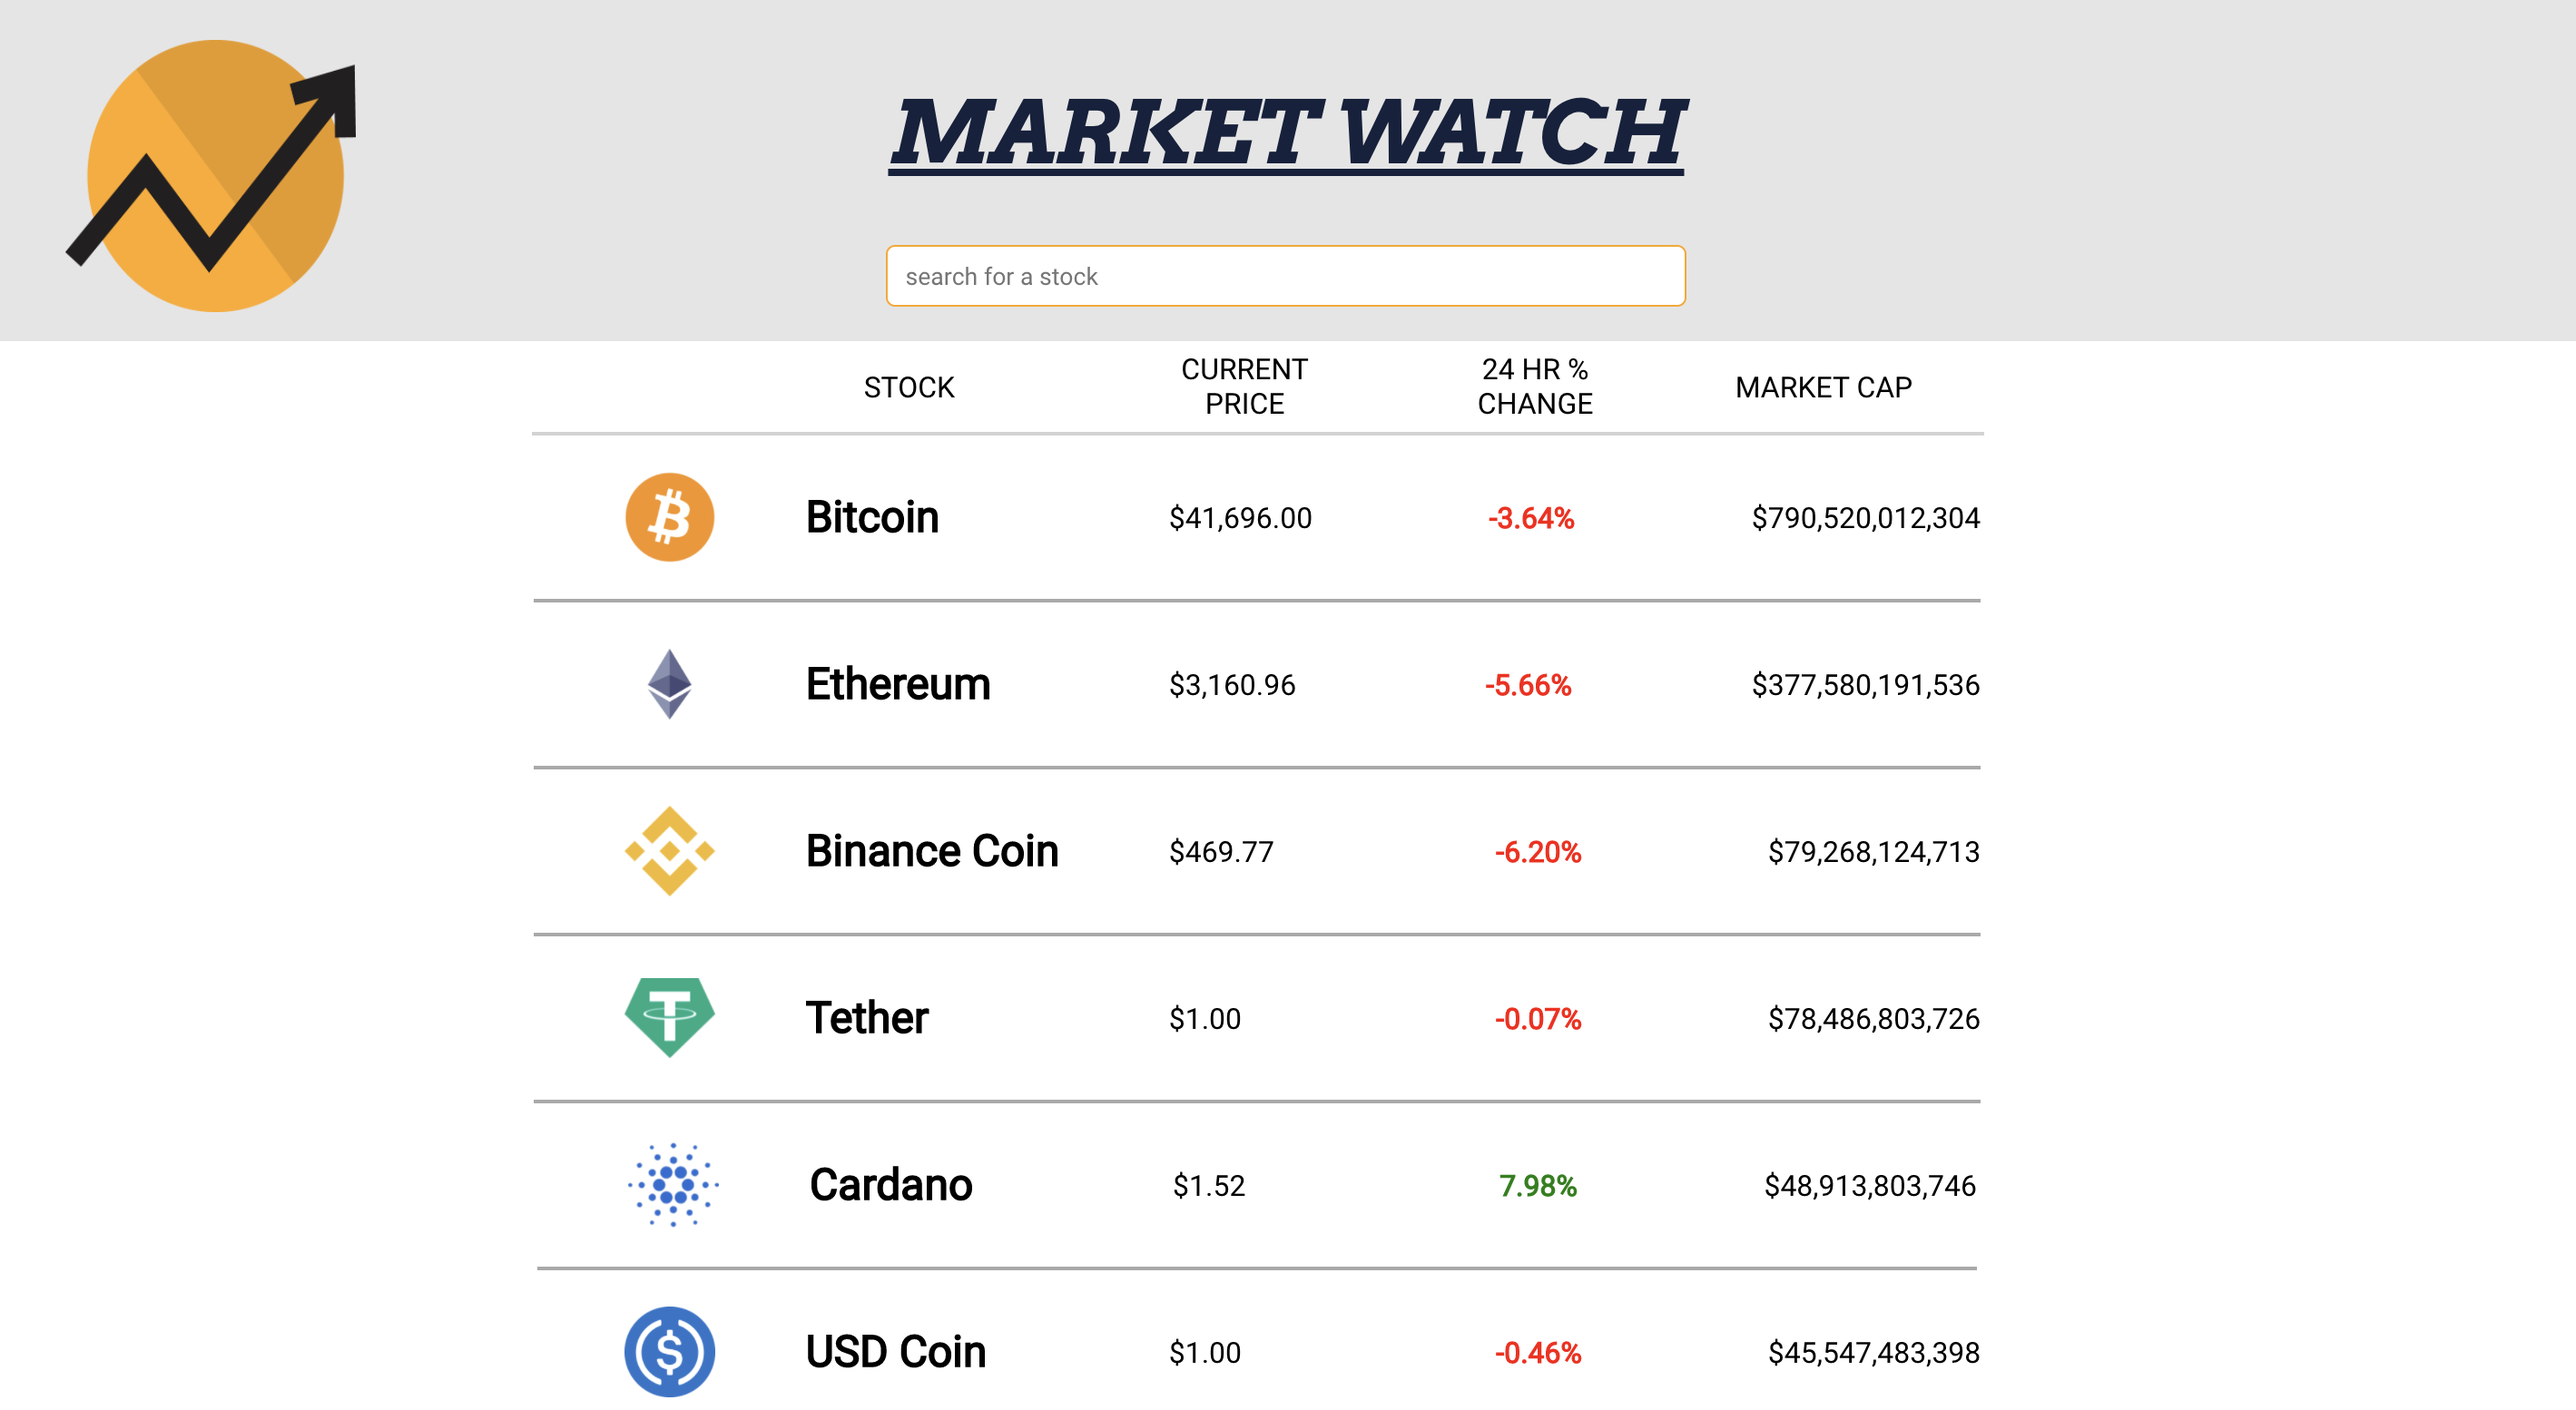
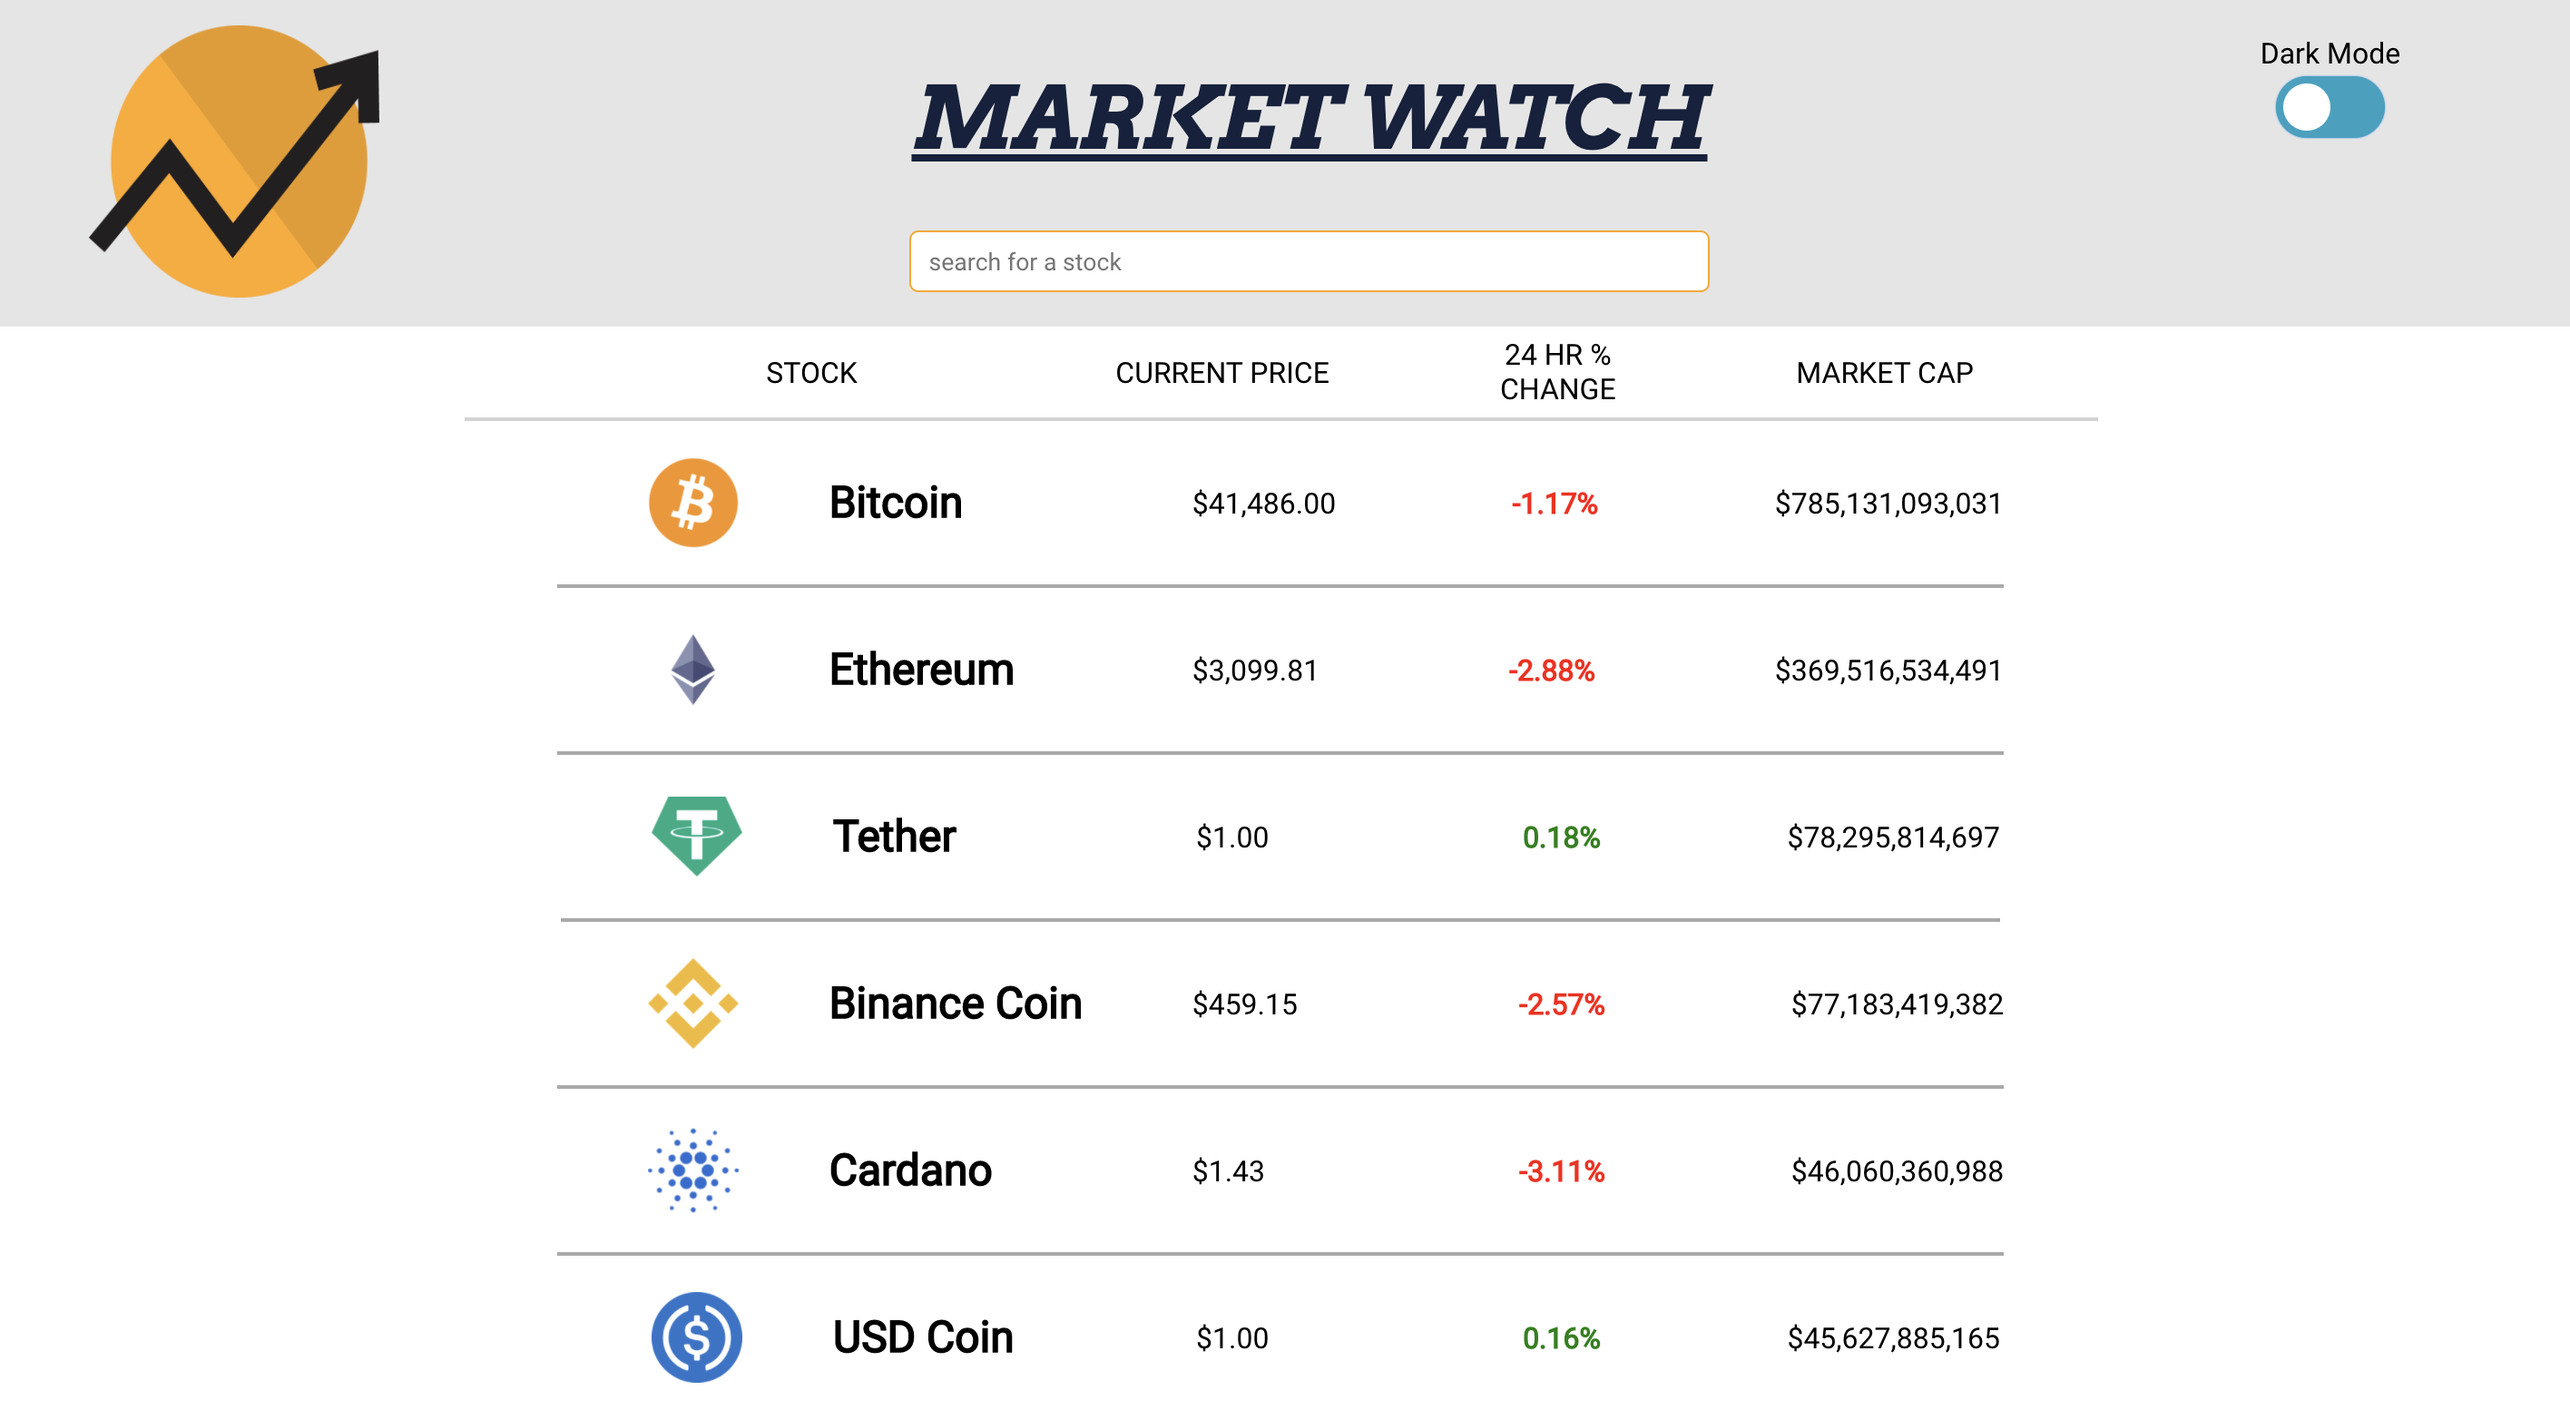
Update readme

diff --git a/src/components/ErrorPage.js b/src/components/ErrorPage.js
@@ -5,7 +5,7 @@ import '../css/ErrorPage.css';
 
 const ErrorPage = ({ error }) => {
 
-  const checkError = error ? <h2>{error.message} games. Try again later!</h2> :
+  const checkError = error ? <h2>{error.message} stocks. Try again later!</h2> :
     <React.Fragment>
       <h2>Invalid URL</h2>
       <Link className='error-btn' to='/'>Go Home!</Link>

diff --git a/README.md b/README.md
@@ -131,18 +131,29 @@ This project is deployed [here](https://aburg15.github.io/market-watch/) on GitH
 
 Scroll through the main page to view all stocks in the database. To find a specific stock, use the search bar in the header. Click on a stock to view its details. 
 
-<details>
 <summary>Main Page</summary>
-<br>
 <img src='./src/assets/main-page.png' />
-</details>
-
-<details>
-<summary>Specific Stock Page</summary>
 <br>
+<br>
+<summary>Specific Stock Page</summary>
 <img src='./src/assets/selected-page.png' />
+<br>
+<br>
+<summary>Dark Mode</summary>
+<img src='./src/assets/dark-mode.png' />
+<br>
+<br>
+<summary>Error Handling</summary>
+<img src='./src/assets/failed-to-fetch.png' />
+<img src='./src/assets/invalid-url.png' />
+<br>
+<br>
+<summary>Responsive Design</summary>
+ <table>
+ <td><img width="296" alt="Screen Shot 2022-01-12 at 12 12 34 PM" src="./src/assets/responsive(1).png"></td>
+ <td><img width="303" alt="Screen Shot 2022-01-12 at 12 12 34 PM" src="./src/assets/responsive(2).png"></td>
+</table>
 
-</details>
 
 <p align="right">(<a href="#top">back to top</a>)</p>
 
